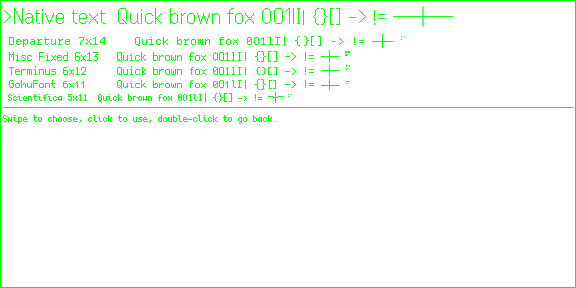
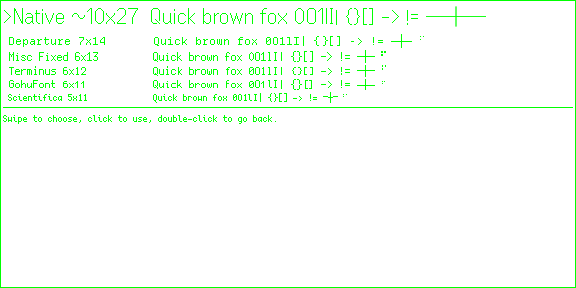
Release beta 1.0.102: Compare fonts samples start in one column; Native text labelled ~10x27.
Each pixel font's sample sentence starts where the glasses start Native's (measured firmware
advances), so "Quick" lines up. Native text's measured size (about 10 px per letter on average,
27 px per line) labels it like the pixel fonts' cells: 'Font: Native ~10x27'.

Agent: Claude Opus 5.5
Claude-Session: https://claude.ai/code/session_01TgtVS6itCsompeVC4U5k4N

diff --git a/app/src/main.ts b/app/src/main.ts
@@ -25,7 +25,7 @@ import { statusRight } from './footer-hint';
 import { formatReset, RESET_MODES, resetModeLabel, type ResetMode } from './usage-reset';
 import { orcaAgents, workspaceSections, toggleWorkspace, workspaceSummary, type PickerRow } from './filters';
 import { createPhone, type Connection } from './phone';
-import { FINE_FONTS, FINE_TILES, fineLabel, alignMarkdownTables, SCANNER_WIDTH, fineLayout, fineMeasure, fineCells, renderFineScreen, renderFontComparison, renderBackgroundComparison, fontSample, FONTS_BY_SIZE, captionTiles, labelTiles, renderKeysPage, renderTextPage, renderUsagePage, type UsagePage, inkByte, nativeTextColor, parseInk, DEFAULT_TURN_BACKGROUND, TURN_BACKGROUNDS, parseTurnBackground, turnBackgroundLabel, type FineFont, type FineStatus, type TurnBackground } from './fine-text';
+import { FINE_FONTS, FINE_TILES, fineLabel, NATIVE_SIZE, alignMarkdownTables, SCANNER_WIDTH, fineLayout, fineMeasure, fineCells, renderFineScreen, renderFontComparison, renderBackgroundComparison, fontSample, FONTS_BY_SIZE, captionTiles, labelTiles, renderKeysPage, renderTextPage, renderUsagePage, type UsagePage, inkByte, nativeTextColor, parseInk, DEFAULT_TURN_BACKGROUND, TURN_BACKGROUNDS, parseTurnBackground, turnBackgroundLabel, type FineFont, type FineStatus, type TurnBackground } from './fine-text';
 import { agentLabel, sessionRow, sessionHeading, moduleHeading, moduleButton, moduleLabel, offeredModules, nextModule, MENU_HEAD, MENU_COUNT, MENU_LEFT, MENU_RIGHT, MENU_CURSOR, MENU_DOTS, sessionAgentLabel, menuNativeText, menuCursorText, nativeRight, glassWidth, compactSessionTitle, type GlassModule, type ModulePosition, type SessionColumns } from './session-list';
 import { markSeen, parseSeen, readMarker, withBaseline, type SeenMap } from './coding-read';
 import { Mail, mailColumns, imageNumbers, MAIL_ACCOUNTS_KEY, MAIL_LABELS_KEY, type ReaderContent, type ReaderSource } from './mail';
@@ -610,7 +610,7 @@ async function paintFine(s: TextScreen, page: number, snapshot = s): Promise<boo
   const tiles = s.keysPage ? renderKeysPage(tr('keysAll').split('\n'), s.fine!, inkLevel)
     : s.usagePage ? renderUsagePage(s.usagePage, s.fine!, inkLevel)
     : s.imageView ? imageViewTiles(s.imageView)
-    : s.comparison === 'fonts' ? renderFontComparison(inkLevel, (s.compareSelected ?? 0) - 1, true)
+    : s.comparison === 'fonts' ? renderFontComparison(inkLevel, (s.compareSelected ?? 0) - 1, true, compareSampleX())
     : s.comparison === 'backgrounds' ? renderBackgroundComparison(s.fine!, inkLevel, turnHalo, s.compareSelected)
     : renderFineScreen(readerLayout(snapshot)[page], s.fine!, fineStatus(snapshot, page), inkLevel, backgroundFor(snapshot), turnHalo);
   let sent = 0;
@@ -670,7 +670,7 @@ function requestFineStatus(s: TextScreen) {
 // Reader long-press menu. The Font list includes the Backgrounds menu and the font comparison;
 // a chat reader adds Translate.
 function readerMenu(screen: TextScreen) {
-  const name = readerText === 'native' ? tr('nativeText') : fineLabel(readerText);
+  const name = readerText === 'native' ? nativeLabel() : fineLabel(readerText);
   return [
     // Straight into the comparison pages, where the choice is made (Eugene, 2026-11-27).
     // `up` is set when Ctrl+, or Ctrl+Shift+P opened the page: going back returns to that menu.
@@ -756,10 +756,17 @@ function moveComparison(s: TextScreen, step: number) {
   }).catch(e => diag((e as Error).message));
 }
 
-// The Native text row of Compare fonts, in the glasses' own font: its label and the sample.
+// The native font's name with its measured size, as the pixel fonts show their cells ('Native ~10x27').
+const nativeLabel = () => `${tr('nativeText')} ${NATIVE_SIZE}`;
+// The Native text row of Compare fonts, in the glasses' own font: its label and the sample. '>' and
+// two spaces are both 10 px in that font, so the sentence stays put when the marker moves.
+const nativeComparePrefix = (selected: boolean) => `${selected ? '>' : '  '}${nativeLabel()}  `;
 function nativeCompareRow(s: TextScreen) {
-  return `${s.compareSelected === 0 ? '>' : ' '}${tr('nativeText')}  ${fontSample()}`;
+  return `${nativeComparePrefix(s.compareSelected === 0)}${fontSample()}`;
 }
+// Where the glasses start Native text's sentence: the pixel fonts start theirs there too, so "Quick"
+// lines up on every row (Eugene, 2026-11-28). Measured firmware advances (text.ts GLASS_ADVANCE).
+const compareSampleX = () => FINE_NATIVE_ROW.xPosition + nativeMeasure()(nativeComparePrefix(true));
 
 // ---- Images (2026-11-27): [Image N], [Photo N], [Sticker N] rows open full screen ----
 // A click on a reader page opens the first picture on that page; a swipe goes to the next or

diff --git a/app/src/i18n.ts b/app/src/i18n.ts
@@ -133,7 +133,7 @@ const en = {
   pageCounter: 'Pg{0}/{1}',
   refreshing: 'Refreshing…',
   usingFont: 'Font: {0}',
-  nativeText: 'Native text',
+  nativeText: 'Native',
   compareFonts: 'Compare fonts',
   compareBackgrounds: 'Compare backgrounds',
   background: 'Background: {0}',
@@ -404,7 +404,7 @@ const ja: Record<Key, string> = {
   pageCounter: 'P{0}/{1}',
   refreshing: '更新中…',
   usingFont: 'フォント: {0}',
-  nativeText: '標準フォント',
+  nativeText: '標準',
   compareFonts: 'フォント比較',
   compareBackgrounds: '背景を比較',
   background: '背景: {0}',

diff --git a/store/features.md b/store/features.md
@@ -2,7 +2,7 @@
 
 Formerly Orca Glass (renamed 2026-11-27; the plugin ID stays com.eugene8080.orcaglass).
 
-Updated: 2026-11-27. Current beta: **1.0.101**. Public: **1.0.36**.
+Updated: 2026-11-27. Current beta: **1.0.102**. Public: **1.0.36**.
 
 Open this file when you update a release in Even Hub:
 
@@ -29,7 +29,7 @@ Rule for every agent: each beta release updates this file in the release commit:
   refreshes in place.
 - Phone page (in the Even app): the same module switch, linked both ways with row 0.
 - Reader shared by every module: nine text rows, whole-page swipes with `Pg X/Y` in the status row,
-  hanging indents on wrapped lines, one Font list (Native text and pixel fonts: Departure 7x14,
+  hanging indents on wrapped lines, one Font list (Native ~10x27 and pixel fonts: Departure 7x14,
   Misc Fixed 6x13, Terminus 6x12, GohuFont 6x11, Scientifica 5x11; Compare fonts screen), App
   Brightness 15 down to 1. Both lists wrap at the ends.
 - With a pixel font, the user's turns sit on a dim background so they stand out. The reader's
@@ -39,7 +39,9 @@ Rule for every agent: each beta release updates this file in the release commit:
   place of the '/'), Underline, and Dim replies (the other side's text dimmer; Email shows None).
   Halo (on by default, 2 px) keeps the background dark next to every letter. Font and Background open their comparison
   pages directly: swipe moves the '>' mark, click uses it (on the Halo row: toggles it), double-click
-  goes back unchanged. Compare fonts lists Native text first, then the pixel fonts large to small.
+  goes back unchanged. Compare fonts lists Native text first, then the pixel fonts large to small,
+  every sample sentence starting in one column. Native text is labelled with its measured size,
+  ~10x27: letters about 10 px wide on average (proportional, 4-17 px), lines 27 px apart.
 - Images: [Photo N] in Chat; [Image N: name] in a mail where the picture appears, including pictures a
   newsletter links to (fetched from the sender's server only when opened, https and public addresses
   only; tracking pixels, icons and ad servers skipped); [Image N] where a picture was pasted
@@ -185,5 +187,5 @@ Original: https://github.com/2ero20ne/orca-glass
 ## Paste: what's new
 
 <!-- whatsnew:start -->
-1.0.101: AI Labels works on any picture with printed text, not only charts: infographics on a gradient background, screenshots, slides. The PC reads each picture you open in the background; a photo it finds no text in skips AI Labels and stays a photo. Needs the bridge on the PC updated.
+1.0.102: Compare fonts lines up: every font's sample sentence starts in the same column, so you can compare letters side by side. Native text now shows its measured size like the pixel fonts: Native ~10x27 (letters about 10 px wide on average, lines 27 px apart).
 <!-- whatsnew:end -->

diff --git a/CLAUDE.md b/CLAUDE.md
@@ -58,6 +58,22 @@ do not fall back to pscapital.com.hk because it has an existing logged-in tab.
 
 ## Current work
 
+2026-11-28 beta 1.0.102 (Eugene: on Compare fonts, line the quick brown fox sentences up on their
+left; measure the native text's dimensions and add them to the menu; 'the 7x14 font looks smaller than
+the 6x13 font. Can you confirm?'). Measured letters from the glyph tables (cap height / x-height / ink
+width): Departure 7x14 8/6/5, Misc Fixed 6x13 9/6/5, Terminus 6x12 8/6/5, GohuFont 6x11 8/5/5,
+Scientifica 5x11 7/5/4: confirmed, Departure's capitals are 1 px shorter than Misc Fixed's (its cell
+adds spacing, not letter size). Native text (official simulator's native renderer, store native
+captures 05 and 18): lines 27 px apart, capitals 16, x-height 11, ascender-descender 21; letters 4-17 px,
+a-z average 9.8 (GLASS_ADVANCE). No font file: the simulator exe embeds no sfnt/woff; its web assets
+are compressed. Label 'Native ~10x27' (NATIVE_SIZE in app/src/fine-text.ts; 'Font: Native ~10x27'
+175 px, 'Font: Native text ~10x27' 213 px > ~210 px menu row; ja '標準 ~10x27', width unverified on
+G2). Compare fonts: pixel rows draw the label, then the sample at one x = where the glasses start
+Native's sentence (FINE_NATIVE_ROW x + measured width of '>Native ~10x27  '; unselected marker is two
+spaces = '>' 10 px). Simulator capture (store fixture, Vite reload): Q at x 151/152 native, 153 (154
+Departure) pixel fonts. Store screenshot 18-compare-fonts replaced with that capture. 334 tests, build
+pass; beta 1.0.102 CLI verified 253,220 bytes; prototype build restored. App-only. G2 check pending.
+
 2026-11-28 bridge restarted with Eugene's approval for 1.0.101 (AI Labels for any picture with
 text): old supervisor 55984/server 53304/whisper 49668 (ownership checked: pid file, tree, 8787
 owner); new supervisor 57432, server 52428, whisper 7452 --vad; healthz ok; modules
